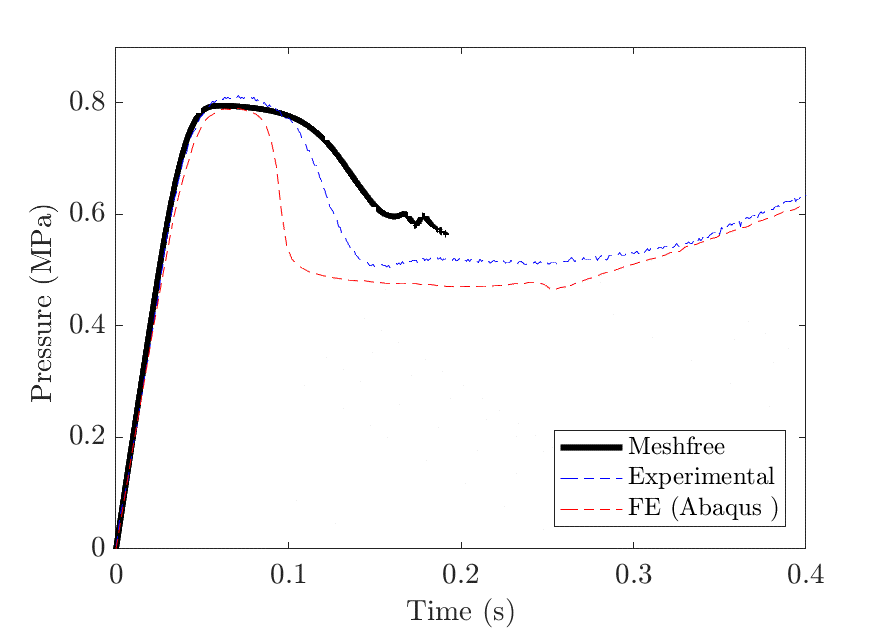
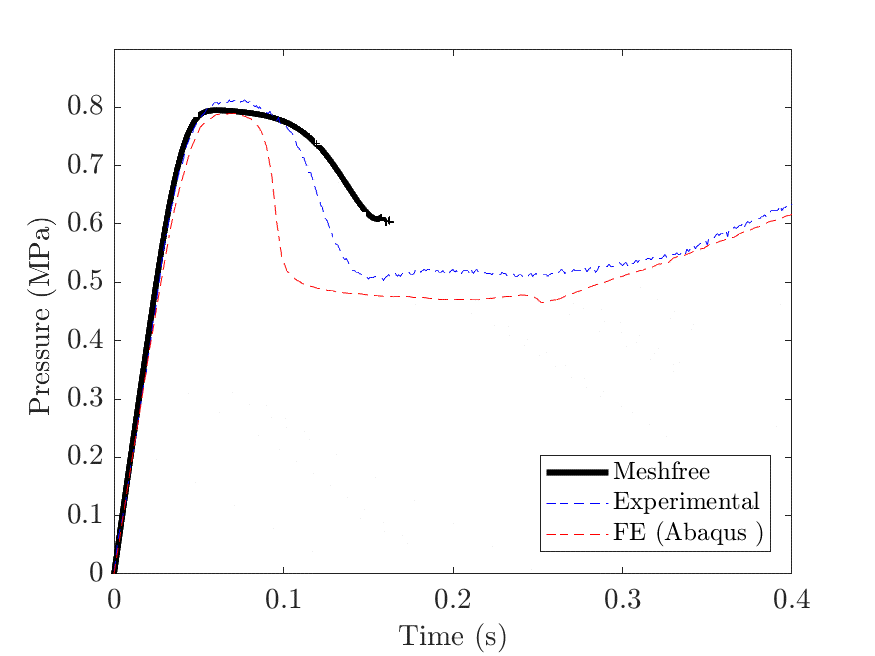
changing input parameters

diff --git a/problems/preform/preform.c b/problems/preform/preform.c
@@ -41,10 +41,10 @@ const char opt[20] = "pYDq0a0.5";
 
 // time step parameters
 const double TMAX = 0.4;
-double delta_t = 4e-7;
+double delta_t = 3e-7;
 
 // Meshfree parameters
-const double dmax = 2.5;
+const double dmax = 2.0;
 const int is_stabalised = 0;
 const int is_constant_support_size = 1;
 
